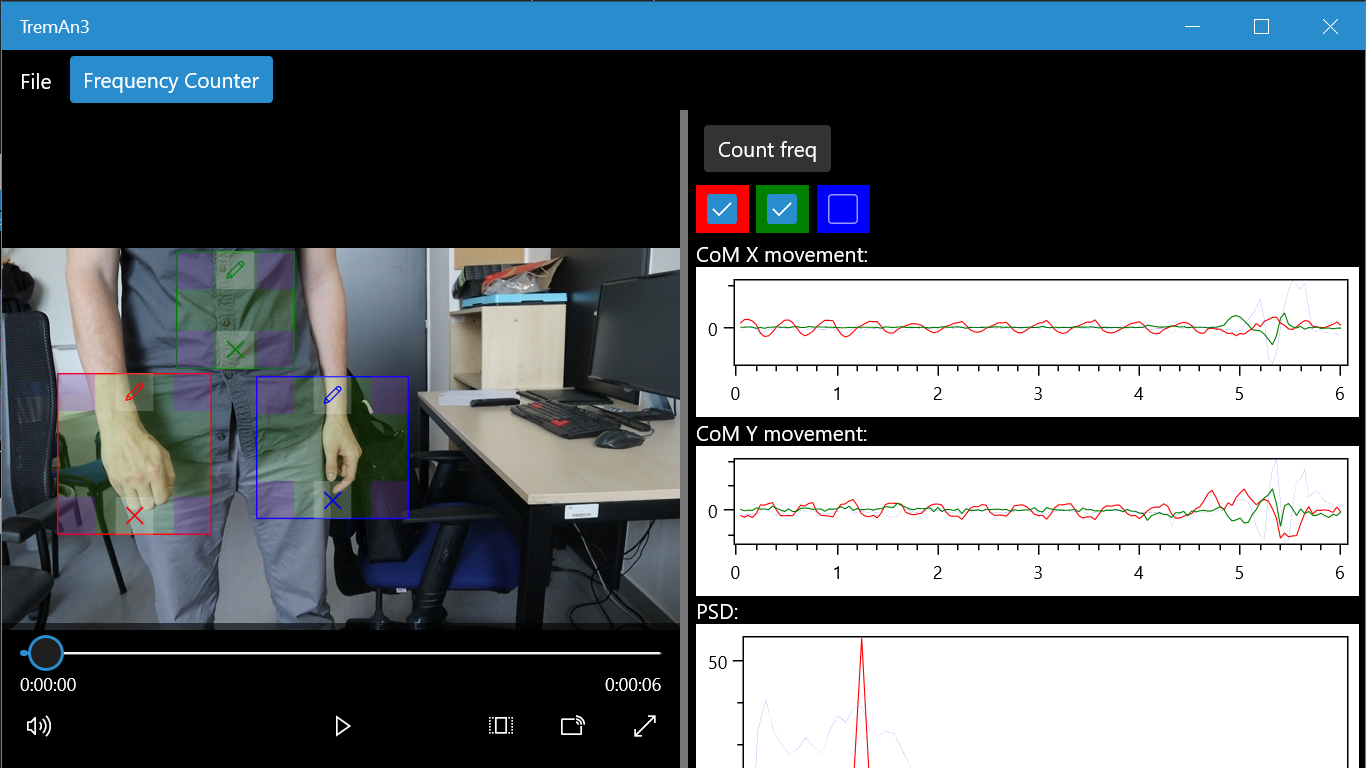
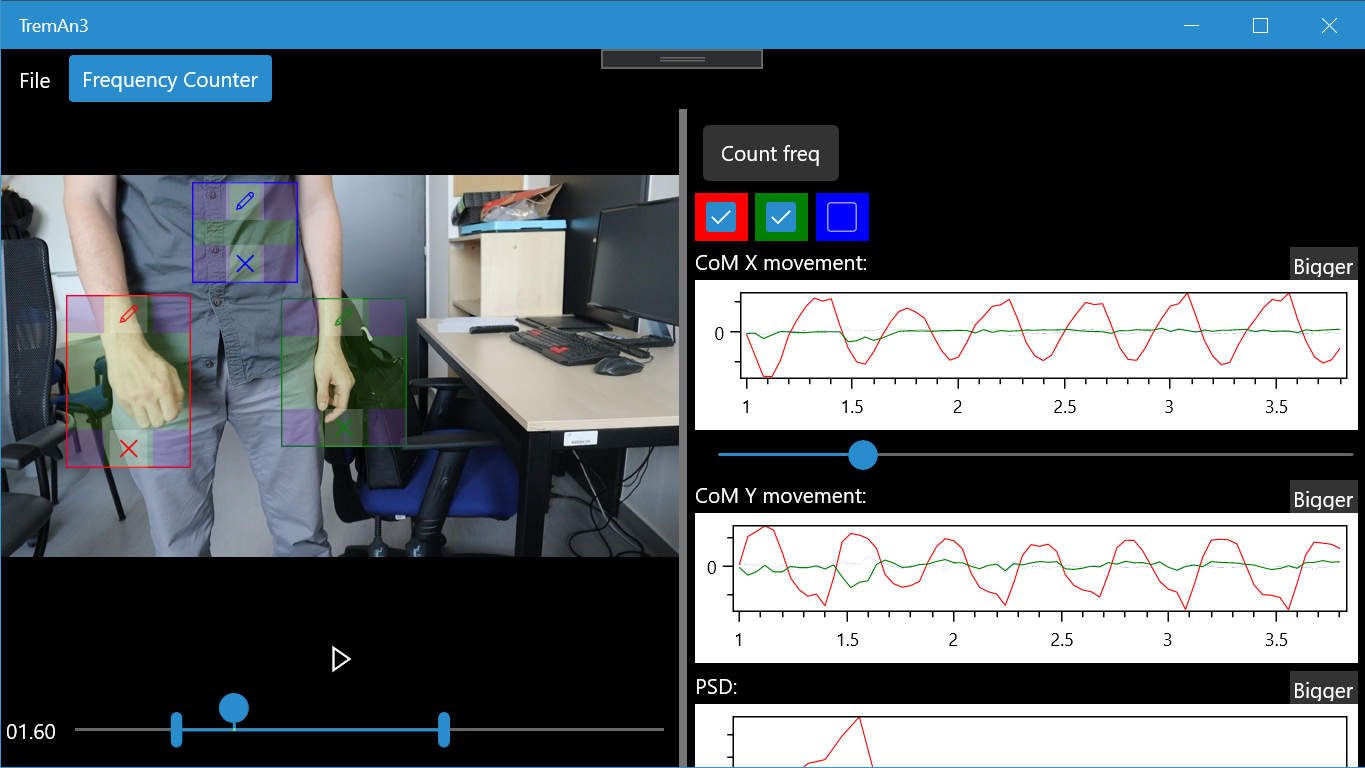
Bigger button on charts. Fixes on blinking button. New screenshots

diff --git a/TremAn3/Views/FreqCounterUc.xaml b/TremAn3/Views/FreqCounterUc.xaml
@@ -25,7 +25,7 @@
             <Setter Property="MinWidth" Value="0"/>
         </Style>
         <toolkitConverters:StringFormatConverter x:Key="StringFormatConverter"></toolkitConverters:StringFormatConverter>
-        
+
     </UserControl.Resources>
     <Grid>
         <VisualStateManager.VisualStateGroups>
@@ -41,6 +41,39 @@
                     </Storyboard>
                     <VisualState.StateTriggers>
                         <StateTrigger  IsActive="{x:Bind  h:StaticConverters.InverseBool (ViewModel.IsAllResultsNotObsolete), Mode=OneWay}" />
+                    </VisualState.StateTriggers>
+                </VisualState>
+            </VisualStateGroup>
+            <VisualStateGroup x:Name="XcomBiggerVisialStates">
+            <VisualState x:Name="XcomNotBigger" />
+                <VisualState x:Name="XcomBigger">
+                    <VisualState.Setters>
+                        <Setter  Target="XComPlotView.Height" Value="222"/>
+                    </VisualState.Setters>
+                <VisualState.StateTriggers>
+                        <StateTrigger  IsActive="{x:Bind  h:StaticConverters.NullBoolToBool( XComToggleBigger.IsChecked), Mode=OneWay}" />
+                </VisualState.StateTriggers>
+            </VisualState>
+            </VisualStateGroup>
+            <VisualStateGroup x:Name="YcomBiggerVisialStates">
+                <VisualState x:Name="YcomNotBigger" />
+                <VisualState x:Name="YcomBigger">
+                    <VisualState.Setters>
+                        <Setter  Target="YComPlotView.Height" Value="222"/>
+                    </VisualState.Setters>
+                    <VisualState.StateTriggers>
+                        <StateTrigger  IsActive="{x:Bind  h:StaticConverters.NullBoolToBool( YComToggleBigger.IsChecked), Mode=OneWay}" />
+                    </VisualState.StateTriggers>
+                </VisualState>
+            </VisualStateGroup>
+            <VisualStateGroup x:Name="PsdBiggerVisialStates">
+                <VisualState x:Name="PsdNotBigger" />
+                <VisualState x:Name="PsdBigger">
+                    <VisualState.Setters>
+                        <Setter  Target="PsdPlotView.Height" Value="222"/>
+                    </VisualState.Setters>
+                    <VisualState.StateTriggers>
+                        <StateTrigger  IsActive="{x:Bind  h:StaticConverters.NullBoolToBool( PsdToggleBigger.IsChecked), Mode=OneWay}" />
                     </VisualState.StateTriggers>
                 </VisualState>
             </VisualStateGroup>
@@ -77,19 +110,30 @@
                     <TextBlock Text="{x:Bind ViewModel.ProgressPercentage, Mode=OneWay,Converter={StaticResource StringFormatConverter}, ConverterParameter=' {0:F2} %' }"  />
                     <ProgressBar Grid.Column="1" MinWidth="0"   Value="{x:Bind ViewModel.ProgressPercentage, Mode=OneWay}" />
                 </Grid>
-                <TextBlock Text="CoM X movement:"/>
-                <oxyplot:PlotView  Height="100"  Model="{x:Bind ViewModel.XCoMPlotModel, Mode=OneWay}"/>
+                <Grid>
+                <TextBlock Text="CoM X movement:" HorizontalAlignment="Left"/>
+                    <ToggleButton Style="{StaticResource BiggerButtonStule}"  x:Name="XComToggleBigger" Content="Bigger" />
+
+                </Grid>
+                <oxyplot:PlotView x:Name="XComPlotView"  Height="100"  Model="{x:Bind ViewModel.XCoMPlotModel, Mode=OneWay}"/>
                 <Slider Margin="15,0,3,0" IsEnabled="True" StepFrequency="0.05"  Minimum="{x:Bind ViewModel.Minrange, Mode=OneWay}" Maximum="{x:Bind ViewModel.Maxrange, Mode=OneWay}" Value="{x:Bind ViewModel.SliderPlotValue, Mode=TwoWay}"  >
 
                 </Slider>
-                <TextBlock Text="CoM Y movement:"/>
-                <oxyplot:PlotView  Height="100"  Model="{x:Bind ViewModel.YCoMPlotModel, Mode=OneWay}"/>
+                <Grid>
+                    <TextBlock Text="CoM Y movement:"/>
+                    <ToggleButton Style="{StaticResource BiggerButtonStule}" x:Name="YComToggleBigger" Content="Bigger" />
+                </Grid>
+                <oxyplot:PlotView  x:Name="YComPlotView"  Height="100"  Model="{x:Bind ViewModel.YCoMPlotModel, Mode=OneWay}"/>
                 <!--<TextBlock Grid.Row="1" Visibility="{x:Bind h:StaticConverters.FreqDoubleToVisibility(ViewModel.VideoMainFreq), Mode=OneWay}">
                 <Run>Main frequency:  </Run>
                 <Run Text="{x:Bind ViewModel.VideoMainFreq , Mode=OneWay,Converter={StaticResource StringFormatConverter}, ConverterParameter=' {0:F2} Hz' }"/>
                 </TextBlock>-->
+
+                <Grid Margin="0,5,0,0">
                 <TextBlock Text="PSD:"/>
-                <oxyplot:PlotView  Height="200"  Model="{x:Bind ViewModel.PSDPlotModel, Mode=OneWay}"/>
+                    <ToggleButton Style="{StaticResource BiggerButtonStule}"  x:Name="PsdToggleBigger" Content="Bigger" /> 
+                </Grid>
+                <oxyplot:PlotView x:Name="PsdPlotView"   Height="100"  Model="{x:Bind ViewModel.PSDPlotModel, Mode=OneWay}"/>
                 <!--oxyplot bug numero dont know: it cannot be in grid or cannot be without height?? so it is separated from nodata-->
                 <!--<TextBlock Canvas.ZIndex="1" Grid.Row="3" Margin="0,-200,0,0" Text="No data" VerticalAlignment="Center" HorizontalAlignment="Center" Foreground="Gray" Style="{StaticResource TitleTextBlockStyle}" Visibility="{x:Bind  helpers:StaticConverters.BoolToVisiblityInverse(ViewModel.FreqCounterViewModel.IsDataAvailableForPlot), Mode=OneWay}"/>-->
                 <Grid Grid.Row="4">

diff --git a/TremAn3/Styles/Styles.xaml b/TremAn3/Styles/Styles.xaml
@@ -5,7 +5,13 @@
         xmlns:media="using:Windows.UI.Xaml.Media"
 
     >
+    <Style x:Key="BiggerButtonStule" TargetType="ToggleButton">
+        <Setter Property="Padding" Value="1"/>
+        <Setter Property="FontSize" Value="14"/>
+        <Setter Property="Height" Value="22"/>
+        <Setter Property="HorizontalAlignment" Value="Right"/>
 
+    </Style>
 
     <Style TargetType="PathIcon" x:Key="GithubIcon" >
         <Setter Property="Data" Value="M12,2A10,10 0 0,0 2,12C2,16.42 4.87,20.17 8.84,21.5C9.34,21.58 9.5,21.27 9.5,21C9.5,20.77 9.5,20.14 9.5,19.31C6.73,19.91 6.14,17.97 6.14,17.97C5.68,16.81 5.03,16.5 5.03,16.5C4.12,15.88 5.1,15.9 5.1,15.9C6.1,15.97 6.63,16.93 6.63,16.93C7.5,18.45 8.97,18 9.54,17.76C9.63,17.11 9.89,16.67 10.17,16.42C7.95,16.17 5.62,15.31 5.62,11.5C5.62,10.39 6,9.5 6.65,8.79C6.55,8.54 6.2,7.5 6.75,6.15C6.75,6.15 7.59,5.88 9.5,7.17C10.29,6.95 11.15,6.84 12,6.84C12.85,6.84 13.71,6.95 14.5,7.17C16.41,5.88 17.25,6.15 17.25,6.15C17.8,7.5 17.45,8.54 17.35,8.79C18,9.5 18.38,10.39 18.38,11.5C18.38,15.32 16.04,16.16 13.81,16.41C14.17,16.72 14.5,17.33 14.5,18.26C14.5,19.6 14.5,20.68 14.5,21C14.5,21.27 14.66,21.59 15.17,21.5C19.14,20.16 22,16.42 22,12A10,10 0 0,0 12,2Z"/>

diff --git a/TremAn3/ViewModels/SelectionRectangleComputationViewModel.cs b/TremAn3/ViewModels/SelectionRectangleComputationViewModel.cs
@@ -18,7 +18,10 @@ namespace TremAn3.ViewModels
 
 
         public SelectionRectangleComputationViewModel(Color color, SelectionRectangleViewModel parent)
-            => (this.color, this.parent) = (OxyColor.FromArgb(255, color.R, color.G, color.B), parent);
+        {
+            (this.color, this.parent) = (OxyColor.FromArgb(255, color.R, color.G, color.B), parent);
+            FreqCounterViewModel.IsRoiSameAsResultSomeChange(false);//obsolete result, when new roi is added
+        }
 
         private SelectionRectangleViewModel parent { get; set; }
         public FreqCounterViewModel FreqCounterViewModel { get => ViewModelLocator.Current.FreqCounterViewModel; }

diff --git a/TremAn3/Helpers/StaticConverters.cs b/TremAn3/Helpers/StaticConverters.cs
@@ -38,6 +38,7 @@ namespace TremAn3.Helpers
 
 
         public static bool NullToBool(object obj) => obj != null;
+        public static bool NullBoolToBool(bool? b) => b!=null && (bool)b;
 
         public static Brush ColorToBrush(Color color) => new SolidColorBrush(Windows.UI.Color.FromArgb(255, color.R, color.G, color.B));
 
